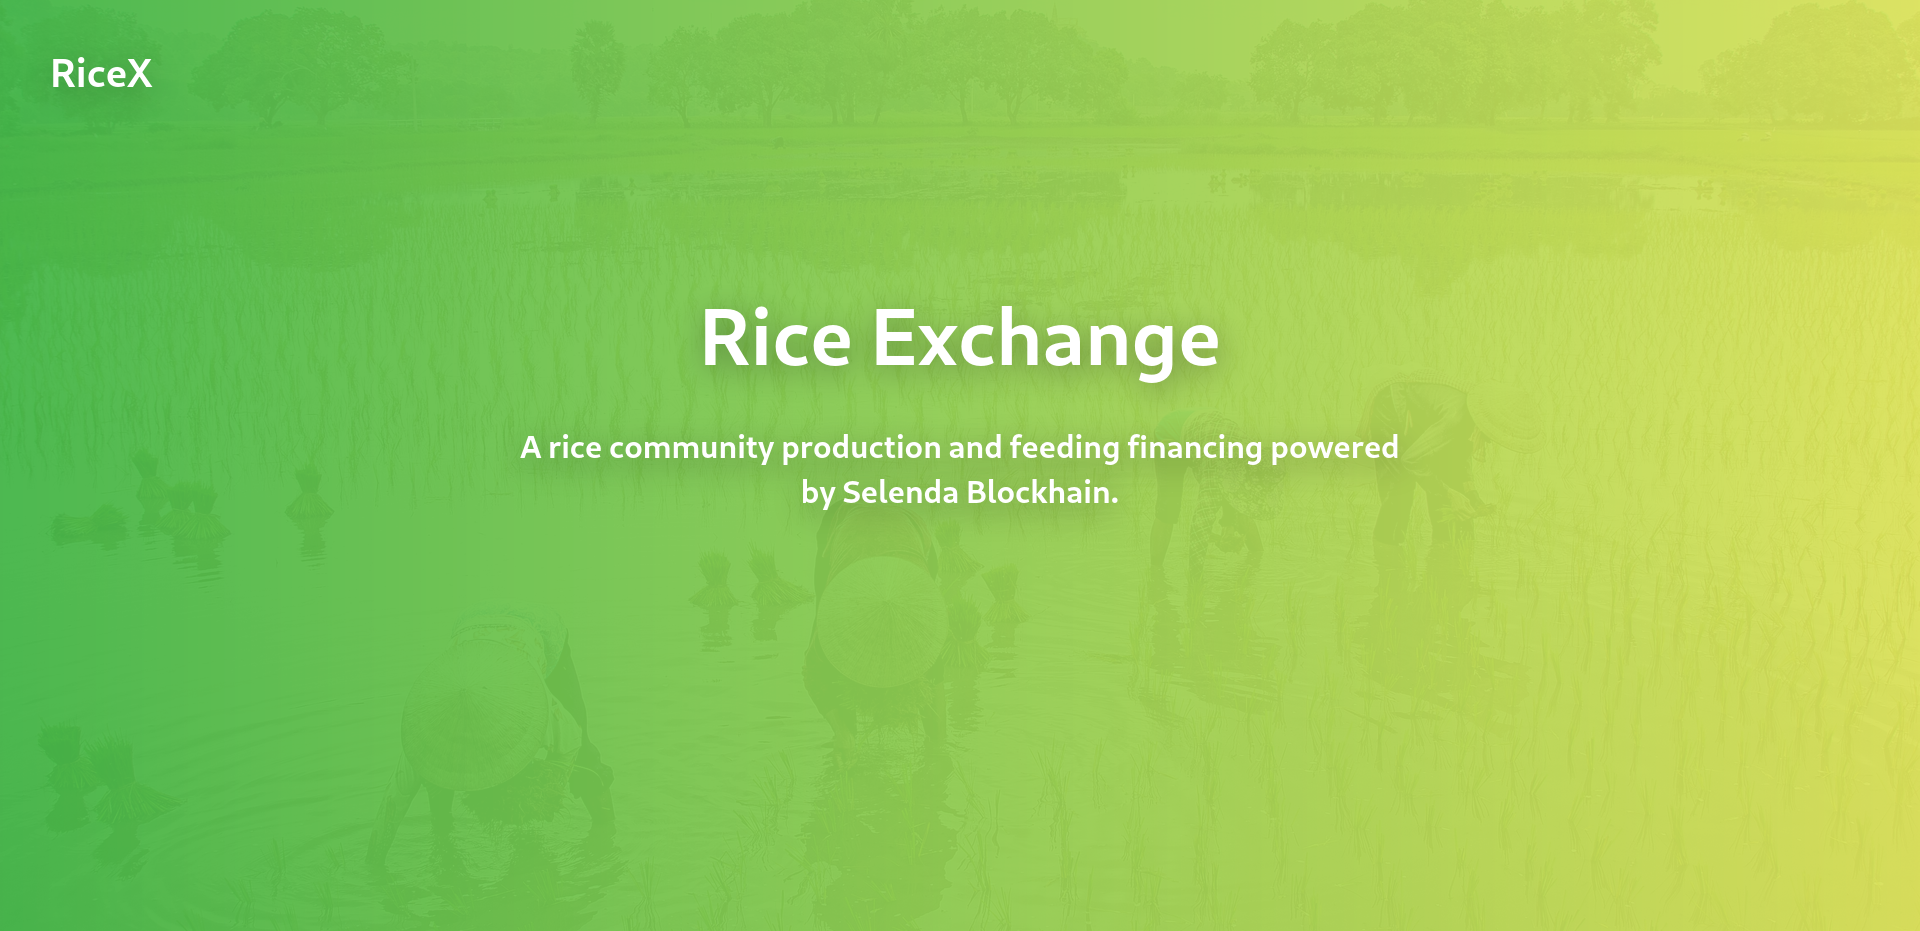
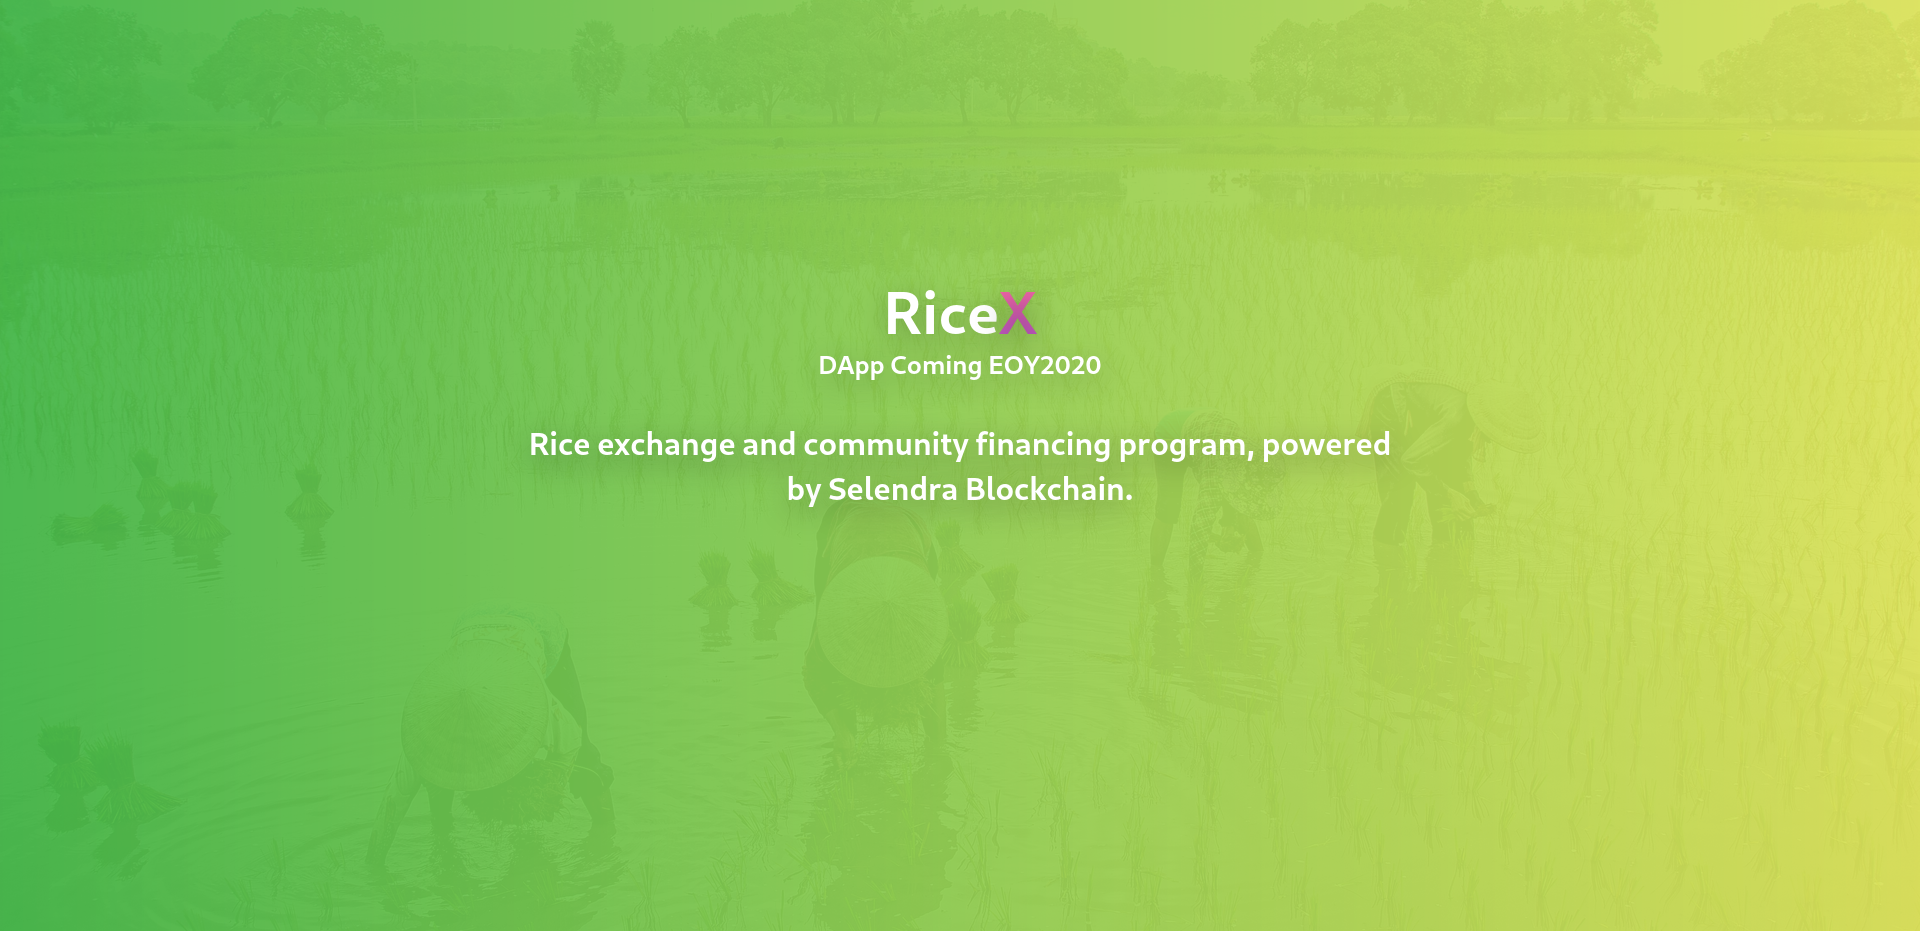
first commit

Changed region(s): [[0.25, 0.4672, 0.75, 0.5607], [0.3438, 0.3115, 0.6562, 0.4049], [0.0, 0.0623, 0.0938, 0.0934]]

diff --git a/pages/index.js b/pages/index.js
@@ -39,8 +39,8 @@ export default function Home() {
       <div className="background-image">
         <center>
           <h1 className="ricex-logo">
-            Rice<span className="x-color">X</span> Dapp
-            <div className="coming-text">Coming EOY2020</div>
+            Rice<span className="x-color">X</span>
+            <div className="coming-text">DApp Coming EOY2020</div>
           </h1>
           {/* <h1 className="test">Rice Exchange </h1> */}
           <br />

diff --git a/styles/globals.css b/styles/globals.css
@@ -59,7 +59,7 @@ a:hover {
 }
 .x-color {
   color: #4685eb;
-  background: -webkit-linear-gradient(#4685eb, rgb(17, 103, 240));
+  background: linear-gradient(to bottom, #ff6b9c, #b053c7);
   -webkit-background-clip: text;
   -webkit-text-fill-color: transparent;
   text-shadow: 2px 8px 30px #0000005e;
